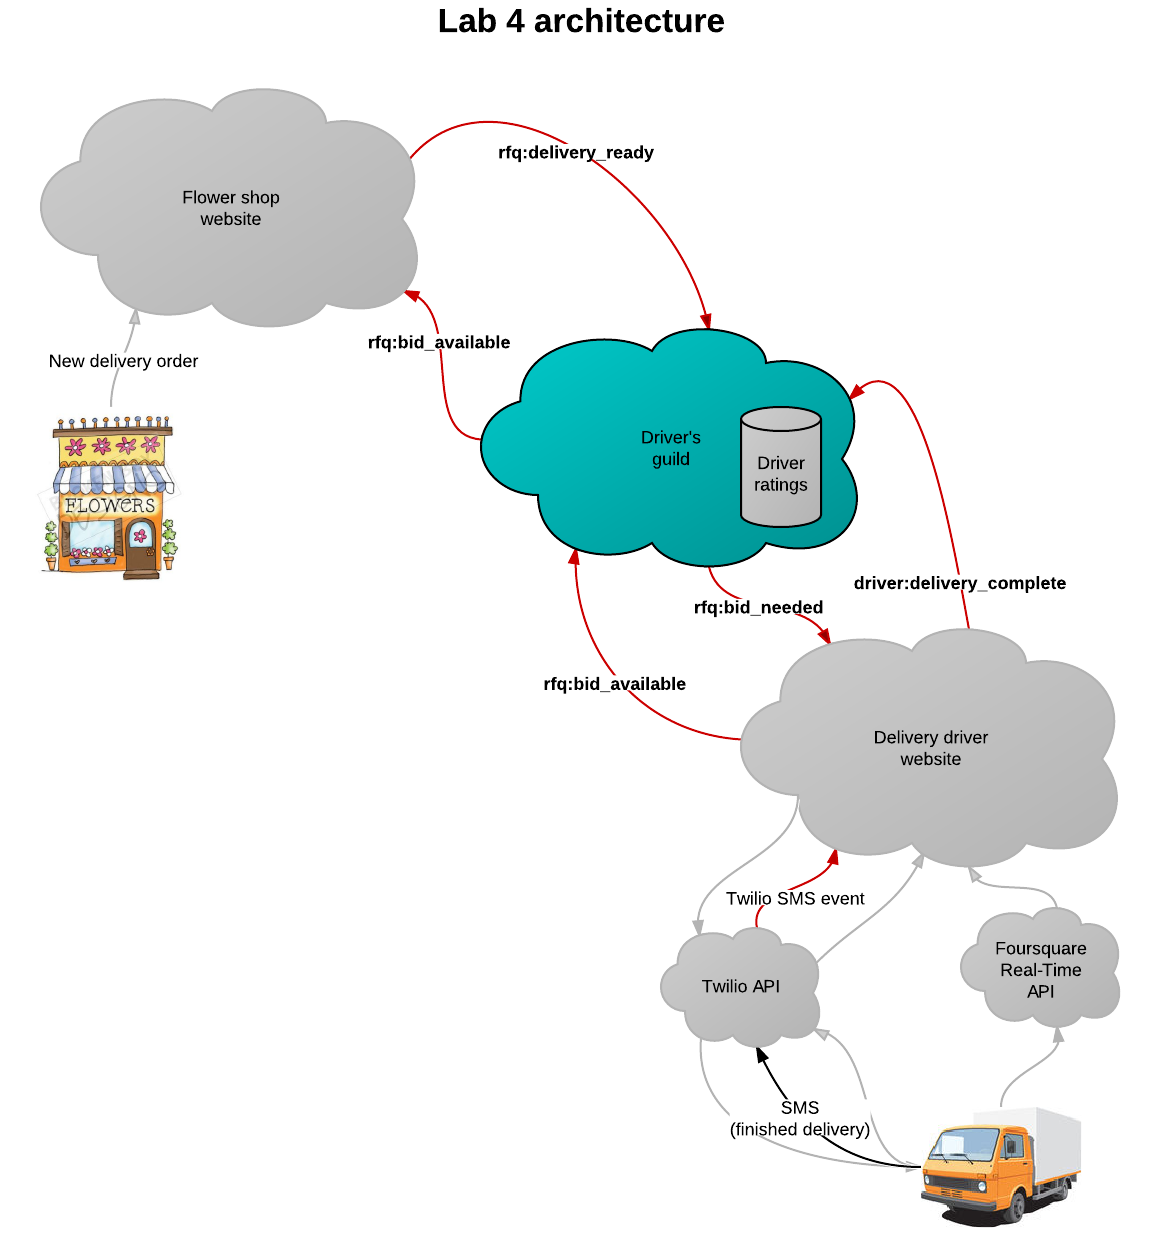
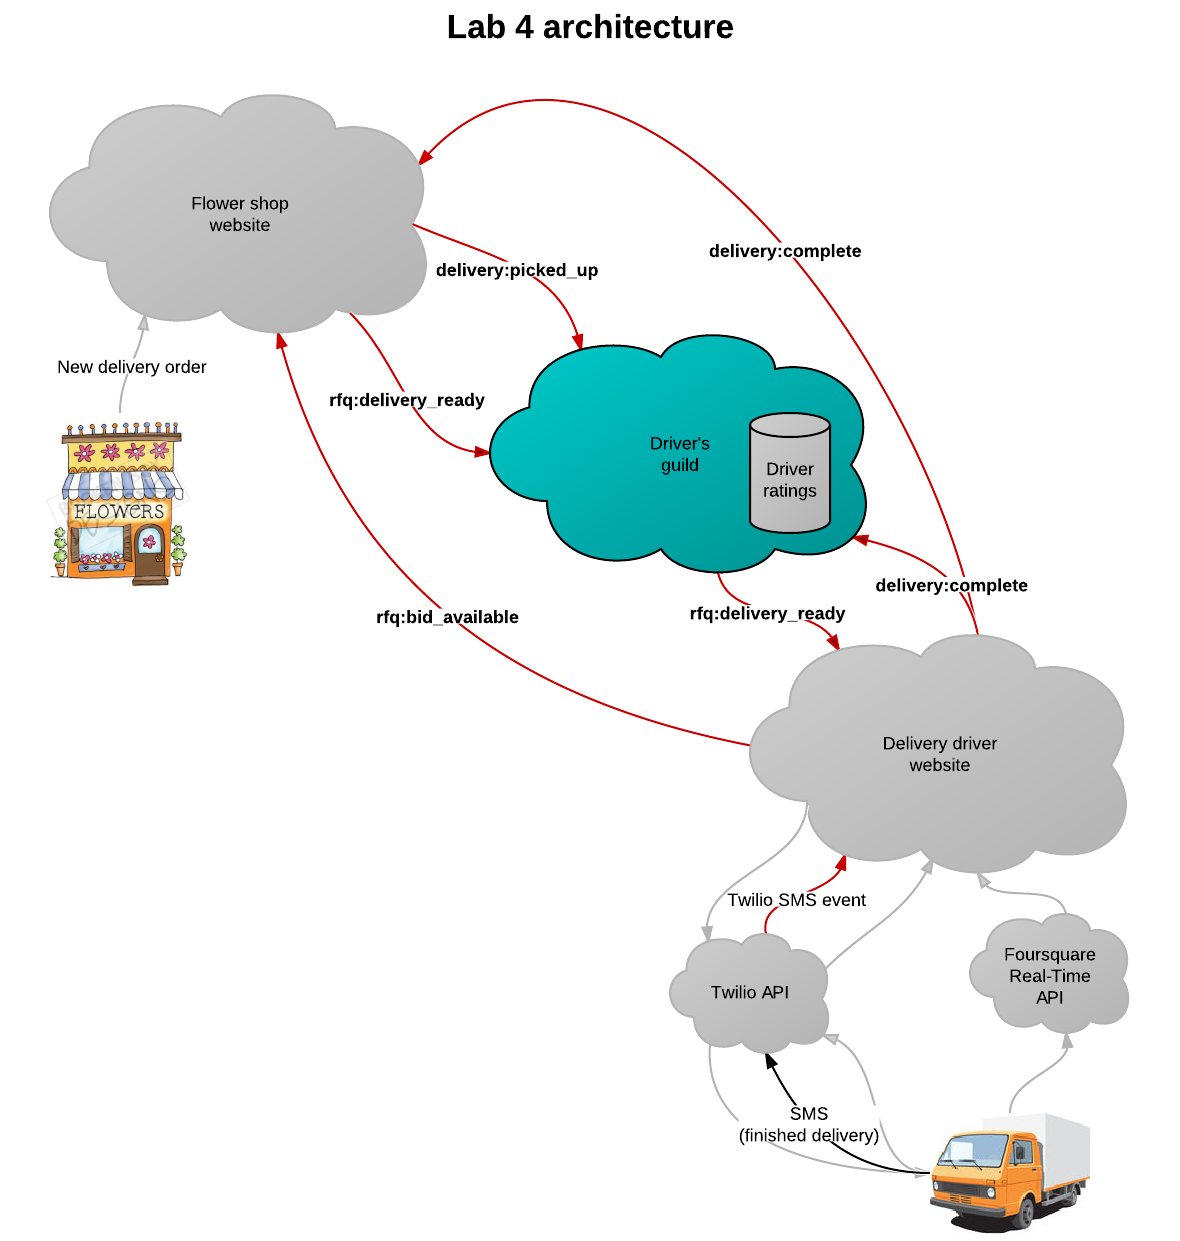
Lab 4 updates, grading, diagram

diff --git a/project/Lab4.md b/project/Lab4.md
@@ -2,7 +2,7 @@
 
 **Objective:** Understand how intermediaries can be used in an event network. 
 
-This lab introduces intermediaries in the form of a driver's guild that represents drivers, keeps track of driver performance, and distributes **rfq:deliver_ready** events.
+This lab introduces intermediaries in the form of a driver's guild that represents drivers, keeps track of driver performance, and distributes **rfq:delivery_ready** events.
 
 Event intermediaries simplify some interactions in event networks and cut down on the number point-to-point subscriptions that players must maintain. 
 
@@ -15,17 +15,17 @@ The following diagram shows how this will work:
 # Driver's Guild
 
 As you can see, the Driver's Guild is an organization that has it's own event network. 
-- The guild subscribes to flowershops so that it sees **rfq:delivery_ready** events.
-- The drivers subscribe to the guild so that they see any **rfq:delivery_ready** events. 
+- The guild subscribes to flower shops so that it sees **rfq:delivery_ready** events
+- The drivers subscribe to the guild so that they see any **rfq:delivery_ready** events
 - The guild will maintain a universal identifier for each driver
 
-In addition, flowershops will signal a **delivery:picked-up** event to the guild when the delivery is picked up. The event will need to include the driver identifier.
+In addition, flower shops will signal a **delivery:picked_up** event to the guild when the delivery is picked up. The event will need to include the driver identifier.
 
-Drivers will signal a **delivery:complete** event to the guild and the flowershop when they have finished a delivery. 
+Drivers will signal a **delivery:complete** event to the guild _and_ the flower shop when they have finished a delivery. 
 
 The guild will maintain a ranking of delivery drivers based on performance. 
 
-When the guild receives a **rfq:delivery_ready** event from a flowershop it raises that event to the top three drivers based on performance (you can dummy up the data for testing purposes).  
+When the guild receives a **rfq:delivery_ready** event from a flower shop, it raises that event to the top three drivers based on performance (you can dummy up the data for testing purposes).  
 
 *Exercise:* determine the event attributes for the new events introduced above. 
 
@@ -33,16 +33,23 @@ When the guild receives a **rfq:delivery_ready** event from a flowershop it rais
 
 # Drivers
 
-Your drivers will still maintain a database of flowershops and ESLs. When a driver sees a **rfq:deliver_ready** event from the guild, it will respond to the flowershop directly as it has in the past. The guild does not intermediate the bid process. 
+Your drivers will still maintain a database of flower shops and ESLs. When a driver sees a **rfq:deliver_ready** event from the guild, it will respond to the flower shop directly as it has in the past. The guild _does not_ intermediate the bid process.
+
+The driver needs some way to notify his system when he has completed the actual delivery. You may use Twilio (as in Lab 3) or some other method.
 
 ---
 
 # Implementation Notes
 
-- You're free to determine how this ranking works, but it might be based on on-time performance for deliveries against a hypothetical best time. A production system would probably use a sophisticated service for this, but for our purposes, you can dummy up the ranking system and just update is with random performance rankings for each delivery. _Note:_ you need to have a ranking system and update it, but you don't need to make it "real."
+- You're free to determine how this ranking works. One possible solution is to base it on on-time performance for deliveries against a hypothetical best time. A production system would probably use a sophisticated service for this, but for our purposes, you can dummy up the ranking system and just update it with random performance rankings for each delivery. _Note:_ you **must** have a ranking system and update it, but it doesn't have to be "real."
 
 ---
 
-# Passing Off
+# Grading
 
-*Steve and Reed update please...*
+- 30% &mdash; Guild properly distributes **rfq:delivery_ready** events to top three drivers
+- 10% &mdash; Driver properly raises **rfq:bid_available** event to flower shop
+- 20% &mdash; Flower shop properly raises **delivery:picked_up** event to guild
+- 10% &mdash; Driver notifies his system that the delivery has been completed
+- 30% &mdash; Driver properly raises **delivery:complete** event to guild and flower shop
+
